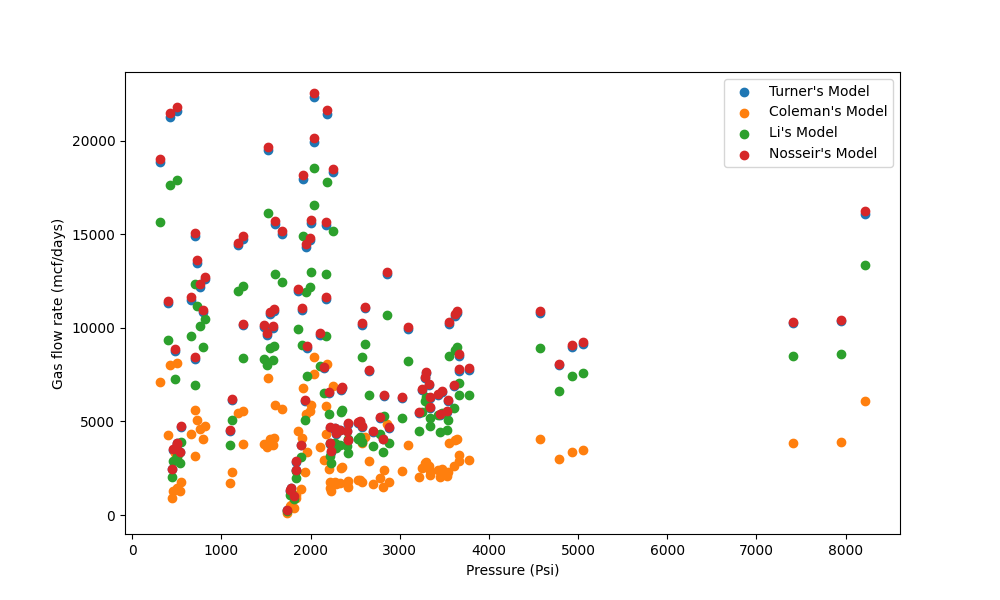
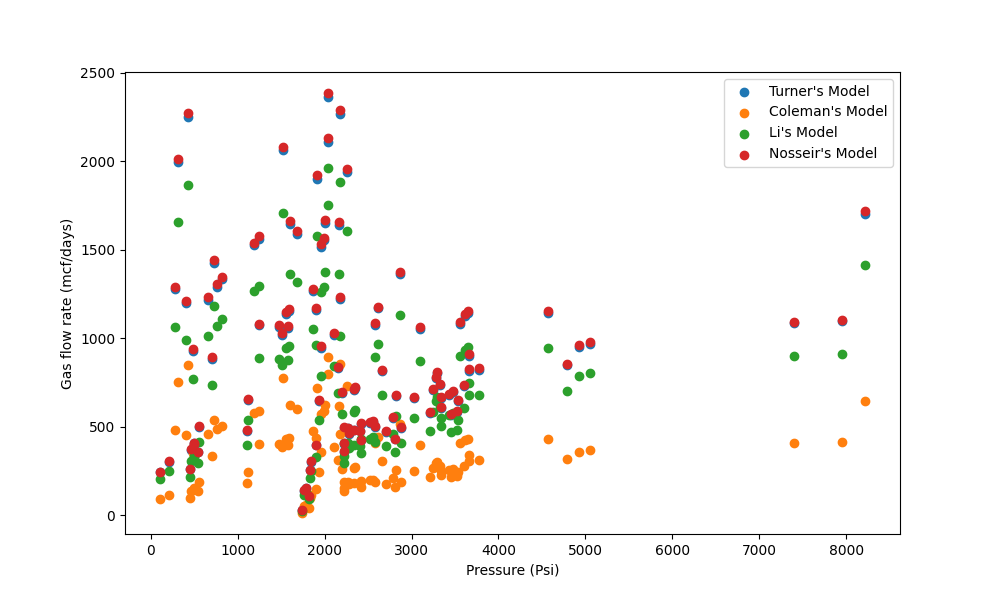
update gridplot

diff --git a/main.py b/main.py
@@ -323,8 +323,37 @@ def display_chart(request: Request):
 
     # save the plot
     plt.savefig("./static/crossplot.png")
+    
+    # Create an empty list to store the combined well status for each model
+    # Create an empty list to store the combined well status for each model
+    combined_well_status = []
 
-    # create the gridplot
+    # Loop through each model
+    for model in ["Turner's Model", "Coleman's Model", "Li's Model", "Nosseir's Model"]:
+        # Calculate well status for the current model
+        well_status = np.where(
+            result.loc[:, ("Actual Data", "Gas flow rate(mcf/days)")]
+            > result.loc[:, (model, "Gas flow rate(mcf/days)")],
+            "Liquid Unloading",
+            "Liquid Loading",
+        )
+        well_status = np.reshape(well_status, (-1, 1))  # Reshape to match the index shape
+
+        # Append the well status for the current model to the combined list
+        combined_well_status.append(well_status)
+
+    combined_well_status_2d = np.hstack(combined_well_status)
+
+    columns = pd.MultiIndex.from_tuples(
+        (model, "Well Status") for model in ["Turner's Model", "Coleman's Model", "Li's Model", "Nosseir's Model"]
+    )
+
+    combined_well_status_df = pd.DataFrame(
+        combined_well_status_2d,
+        columns=columns,
+        index=result.index,
+    )
+
     crossplot_data = result[
         [
             ("Actual Data", "Pressure(Psi)"),
@@ -342,15 +371,21 @@ def display_chart(request: Request):
     # Flatten the axes array to make it easier to iterate over
     axes = axes.flatten()
 
-    # Plot each model's gas flow rate against the pressure of the actual data, with different colors for 'Liquid Loading' and 'Liquid Unloading'
-    well_status_colors = {"Liquid Loading": "blue", "Liquid Unloading": "red"}
-    for i, model in enumerate(
-        ["Turner's Model", "Coleman's Model", "Li's Model", "Nosseir's Model"]
-    ):
+    # Define colors for well status values
+    well_status_colors = {
+        "Liquid Loading": "blue",
+        "Liquid Unloading": "red"
+    }
+
+    # Plot each model's gas flow rate against the pressure of the actual data, with different colors for well status
+    for i, model in enumerate(["Turner's Model", "Coleman's Model", "Li's Model", "Nosseir's Model"]):
         ax = axes[i]  # Get the current subplot
         model_gas_flow = result[(model, "Gas flow rate(mcf/days)")]
-        well_status = crossplot_data[("", "Well Status")]
+        well_status = combined_well_status_df[(model, "Well Status")]
+        
+        # Map well status values to colors
         color = [well_status_colors.get(status, "black") for status in well_status]
+        
         ax.scatter(
             crossplot_data[("Actual Data", "Pressure(Psi)")],
             model_gas_flow,
@@ -384,6 +419,7 @@ def display_chart(request: Request):
             title="Well Status",
             loc="upper right",
         )
+        ax.autoscale(enable=True, axis='y')  # Adjust y-axis limits dynamically
 
     # Remove any unused subplots
     if num_models < len(axes):
@@ -398,7 +434,6 @@ def display_chart(request: Request):
 
     # Close the figure to free up memory
     plt.close(fig)
-
     return templates.TemplateResponse("chart.html", {"request": request})
 
 
